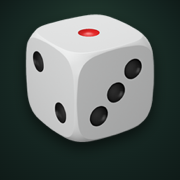
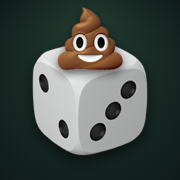
Fix the white bar under the home indicator, add cats
The html element had no background of its own, so the strip below the safe
area in a full-screen web app fell through to the default white canvas.
Painting html the table colour covers it.

Icon list rebuilt and roughly doubled: cats first, then the rest of the
menagerie, then the non-animals. Default assignments now include a cat and
a dog. Checked every entry renders a real glyph rather than tofu.

App icon is now the die with a poop sitting on top of it.

Changed region(s): [[0.1389, 0.0278, 0.8611, 0.8611]]

diff --git a/index.html b/index.html
@@ -41,7 +41,10 @@
     -webkit-user-select:none;user-select:none;-webkit-touch-callout:none;
   }
   input{-webkit-user-select:text;user-select:text}
-  html,body{height:100%}
+  /* the canvas behind the page — without this, the strip under the home indicator
+     in a full-screen web app is painted white */
+  html{height:100%;background:#0a1210}
+  body{height:100%}
   body{
     margin:0;
     font-family:var(--font);
@@ -1104,10 +1107,18 @@ const SPECIALS = [
    STATE
    ======================================================================= */
 const COLORS = ['#e23c3c','#3aa0d8','#8a63d2','#e08a1e','#1d8a4c','#d4409a','#00a3a3','#7b5e3b'];
-const EMOJI  = ['🐙','🦊','🐸','🦄','🐝','🦁','🐼','🐧'];
-const PICKABLE = ['🐙','🦊','🐸','🦄','🐝','🦁','🐼','🐧','🐨','🐵','🦖','🦑','🐢','🦩','🐰','🐺','🦉','🐴',
-                  '🐷','🦨','🦡','🐊','🦈','🐌','🦞','🐲','🐔','🦆','👻','💀','👽','🤖','🤡','😈','👑','🍕',
-                  '🌮','🍩','🍑','🍺','🥃','🚀','⚡','🔥','💩','🎃','🥷','🦸','🧙','🍄','🌵','🎩','🕶','🏴☠'];
+const EMOJI  = ['🐙','🐱','🦊','🐸','🐶','🦄','🐝','🐼'];
+const PICKABLE = [
+  // cats, obviously
+  '🐱','🐈','🐈⬛','🐯','🦁','🐆','🐅',
+  // and everyone else
+  '🐶','🐕','🐺','🦝','🐻','🐻❄','🐨','🐼','🐵','🦍','🦧','🐷','🐮','🐴','🦄','🦓','🦒','🐘',
+  '🐰','🐹','🐭','🐿','🦔','🦇','🦥','🦦','🦨','🦡','🐸','🐢','🐊','🦖','🐲','🐍',
+  '🐙','🦑','🦈','🐬','🐳','🦭','🦞','🦀','🐌','🦋','🐝','🐧','🦉','🦆','🦩','🦚','🦜','🐔',
+  // not animals
+  '👻','💀','👽','🤖','🤡','😈','👑','🥷','🦸','🧙','🎩','🕶','🏴☠',
+  '🍕','🌮','🍩','🍑','🍺','🥃','🍄','🌵','🚀','⚡','🔥','💩','🎃'
+];
 const SAVE = 'farkler.v1', ROSTER = 'farkler.roster', RULES = 'farkler.rules';
 
 let G = null;          // live game

diff --git a/sw.js b/sw.js
@@ -2,7 +2,7 @@
    Rule number one in here: every path must return a real Response. Handing respondWith()
    an undefined kills the navigation and paints a blank white page, which is exactly the
    bug this file used to have. */
-const CACHE = 'farkler-v4';
+const CACHE = 'farkler-v5';
 const FILES = ['index.html', 'icon-180.png'];
 
 // One at a time: addAll() rejects the whole install if any single request fails.
